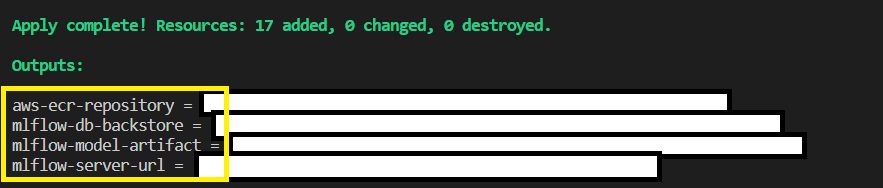
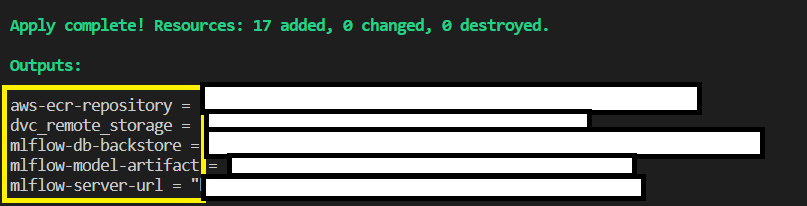
091122 Major Update 3

diff --git a/README.md b/README.md
@@ -88,7 +88,7 @@ With the MLOps framework, we can achieved the productivity and reliability model
 
 5. Download & Install the AWS CLI on your local desktop [link](https://docs.aws.amazon.com/cli/latest/userguide/getting-started-install.html)
 
-6. Configure the access key by enter `aws configure` on your local env.
+6. Configure the access keys by enter `aws configure` on your local env.
 <img alt = "image" src = "https://github.com/hoe94/DTC_MLOPS_Project/blob/main/images/aws_cli_configure.png">
 
 7. Create the S3 Bucket by using AWS CLI for the Terraform state bucket
@@ -114,7 +114,7 @@ p/s. please dont use my Terraform state bucket
 
 4. Type "yes" when prompted to continue
 
-5. Copy the *mlflow-server-url* & *aws-ecr-repository* from the outputs after complete run terraform apply
+5. Copy the *mlflow-server-url*, *aws-ecr-repository* & *dvc_remote_storage* from the outputs after complete run terraform apply
 
 6. Enter the credentials to login into mlflow-server-url
     * user: mlflow
@@ -131,6 +131,7 @@ p/s. please dont use my Terraform state bucket
     export AWS_ACCESS_KEY_ID=[AWS_ACCESS_KEY_ID]
     export AWS_SECRET_ACCESS_KEY=[AWS_SECRET_ACCESS_KEY]
     ```
+    
 3. Set the environment variables for MLFLOW_TRACKING_URI. For windows user please use Git Bash.
     ```bash
     export MLFLOW_TRACKING_URI=[MLFLOW_TRACKING_URI]
@@ -186,7 +187,7 @@ p/s. please dont use my Terraform state bucket
     ```bash 
     docker run -it --rm -p 9696:9696 -e AWS_ACCESS_KEY_ID="${AWS_ACCESS_KEY_ID}" -e AWS_SECRET_ACCESS_KEY="${AWS_SECRET_ACCESS_KEY}" -e MLFLOW_TRACKING_URI="${MLFLOW_TRACKING_URI}" --name mlops-project mlops-project-credit-score-prediction:v1
     ```
-    
+
 3. Run the test_predict.py to test the running container
     ```bash
     python src/test_predict.py
@@ -200,7 +201,6 @@ p/s. please dont use my Terraform state bucket
 
 #### Step 8 - Pushing the docker image into AWS Elastic Container Registry (ECR)
 1. login into AWS ECR. Please fill in the variables, *aws-region* & *aws-ecr-repository*. Please refer back Step 2.5 for *aws-ecr-repository*.
-
     ```bash
     aws ecr get-login-password \
         --region [aws-region] \
@@ -246,7 +246,8 @@ p/s. please dont use my Terraform state bucket
     --memory-size 256
     ```
 
-Reference Link: [link](https://docs.aws.amazon.com/IAM/latest/UserGuide/id_roles_create_for-service.html)
+Reference Link: [link](https://docs.aws.amazon.com/IAM/latest/UserGuide/id_roles_create_for-service.html) <br>
+Reference Link: [link2](https://docs.aws.amazon.com/cli/latest/reference/lambda/create-function.html)
 
 #### Step 10 - Configure the environment variable as Secrets in Github
 
@@ -293,10 +294,13 @@ pre-commit install
     choco install make
     '''
 
-3. Run the run.sh batch script for the integration test
-```bash
-./run.sh
-```
+3. Select the modules (code checks, unit_testing, integration_testing) from the makefile
+    ```bash
+    make [module]
+    ```
+<img alt = "image" src = "https://github.com/hoe94/DTC_MLOPS_Project/blob/main/images/makefile-selection.png">
+
+
 
 ### Further Improvements
 * Host the monitoring services (evidently AI, Prometheus, Grafana, Mongodb) on AWS Cloud through Terraform
